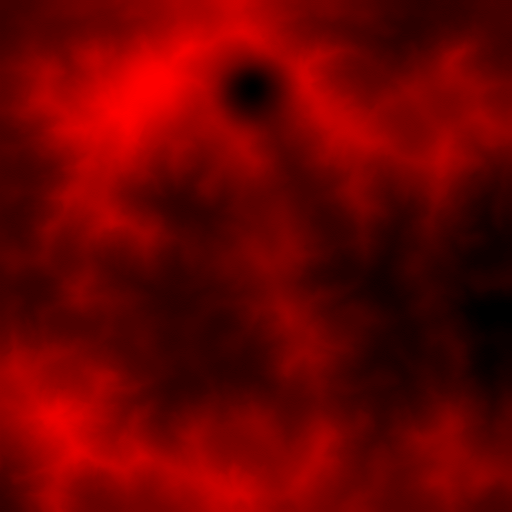
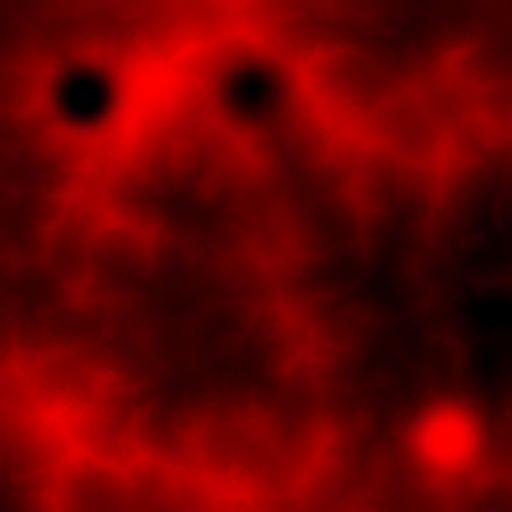
wyswietlanie mini mapy

Changed region(s): [[0.0625, 0.0938, 0.25, 0.2812], [0.7812, 0.7812, 0.9688, 0.9375]]

diff --git a/src/hud/window/minimap/MiniMapPanel.cpp b/src/hud/window/minimap/MiniMapPanel.cpp
@@ -1,4 +1,8 @@
 #include "MiniMapPanel.h"
+#include "Game.h"
+#include "hud/MySprite.h"
+#include <Urho3D/Graphics/Texture2D.h>
+#include "simulation/env/Enviroment.h"
 
 
 MiniMapPanel::MiniMapPanel(Urho3D::XMLFile* _style) : AbstractWindowPanel(_style) {
@@ -9,5 +13,44 @@ MiniMapPanel::MiniMapPanel(Urho3D::XMLFile* _style) : AbstractWindowPanel(_style
 MiniMapPanel::~MiniMapPanel() {
 }
 
+void MiniMapPanel::createEmpty() {
+	IntVector2 size = spr->GetSize();
+	Enviroment* env = Game::get()->getEnviroment();
+	uint32_t* data = (uint32_t*)minimap->GetData();
+	int idR = 0;
+	float div = 5;
+	float dy = size.y_;
+	float dx = size.x_;
+	for (short y = 0; y < dy; ++y) {
+		for (short x = 0; x < dx; ++x) {
+			float val = env->getGroundHeightPercent((dy - 1 - y) / dy, x / dx, div);
+
+			*(data + idR) = 0xFF003000 + unsigned(val) * 0X100;
+			++idR;
+		}
+	}
+
+	text->SetData(minimap);
+
+	spr->SetTexture(text);
+}
+
 void MiniMapPanel::createBody() {
+	spr = window->CreateChild<Sprite>();
+
+	IntVector2 size = spr->GetSize();
+	if (size.x_ < size.y_) {
+		size.y_ = size.x_;
+	} else {
+		size.x_ = size.y_;
+	}
+	spr->SetMaxSize(size);
+	minimap = new Image(Game::get()->getContext());
+
+	minimap->SetSize(size.x_, size.y_, 4);
+
+	text = new Texture2D(Game::get()->getContext());
+	text->SetData(minimap);
+
+	spr->SetTexture(text);
 }

diff --git a/src/simulation/env/Enviroment.cpp b/src/simulation/env/Enviroment.cpp
@@ -120,6 +120,14 @@ double Enviroment::getGroundHeightAt(double x, double z) {
 	return terrian->GetHeight(Vector3(x, 0, z));
 }
 
+float Enviroment::getGroundHeightPercent(float y, float x, float div) {
+	float scale = terrian->GetSpacing().y_;
+	Vector3 a = Vector3(x * BUCKET_GRID_SIZE - BUCKET_GRID_SIZE / 2, 0,
+		y * BUCKET_GRID_SIZE - BUCKET_GRID_SIZE / 2);
+	return terrian->GetHeight(a) / scale / div;
+}
+
+
 bool Enviroment::validateStatic(const IntVector2& size, Vector3* pos) {
 	return mainGrid->validateAdd(size, pos);
 }

diff --git a/src/simulation/env/Enviroment.h b/src/simulation/env/Enviroment.h
@@ -36,6 +36,7 @@ public:
 	std::vector<Physical *>* getNeighbours(std::pair<Vector3*, Vector3*>* pair);
 	std::vector<Physical *>* getBuildings(std::pair<Vector3*, Vector3*>* pair);
 	double getGroundHeightAt(double x, double z);
+	float getGroundHeightPercent(float y, float x, float div);
 	bool validateStatic(const IntVector2& size, Vector3* pos);
 	Vector3* getValidPosition(const IntVector2& size, Vector3* pos);
 	IntVector2 getBucketCords(const IntVector2& size, Vector3* pos);

diff --git a/src/hud/window/minimap/MiniMapPanel.h b/src/hud/window/minimap/MiniMapPanel.h
@@ -1,12 +1,19 @@
 #pragma once
 #include "../AbstractWindowPanel.h"
+#include <Urho3D/Resource/Image.h>
+#include <Urho3D/UI/Sprite.h>
 
 class MiniMapPanel :public AbstractWindowPanel
 {
 public:
 	MiniMapPanel(Urho3D::XMLFile* _style);
 	~MiniMapPanel();
+	void createEmpty();
+	void update();
 private:
 	void createBody() override;
+	Urho3D::Sprite* spr;
+	Urho3D::Image* minimap;
+	Urho3D::Texture2D* text;
 };
 

diff --git a/src/hud/Hud.cpp b/src/hud/Hud.cpp
@@ -137,6 +137,10 @@ void Hud::update(int unitsNumber) {
 	topPanel->update(unitsNumber);
 }
 
+void Hud::createMiniMap() {
+	miniMapPanel->createEmpty();
+}
+
 std::vector<HudElement*>* Hud::getButtonsBuildToSubscribe() {
 	return buildPanel->getButtons();
 }

diff --git a/src/hud/Hud.h b/src/hud/Hud.h
@@ -49,6 +49,7 @@ public:
 
 	void update(Benchmark* benchmark, CameraManager* cameraManager);
 	void update(int unitsNumber);
+	void createMiniMap();
 	void updateSelected(SelectedInfo* selectedInfo);
 
 	void hoverOnIcon(HudElement* hudElement);

diff --git a/src/Main.cpp b/src/Main.cpp
@@ -58,7 +58,7 @@ void Main::load() {
 		{
 		Enviroment* enviroment = static_cast<Enviroment*>(loadingState->sth);
 		enviroment->prepareGridToFind();
-
+		hud->createMiniMap();
 		break;
 		}
 	case 3:
